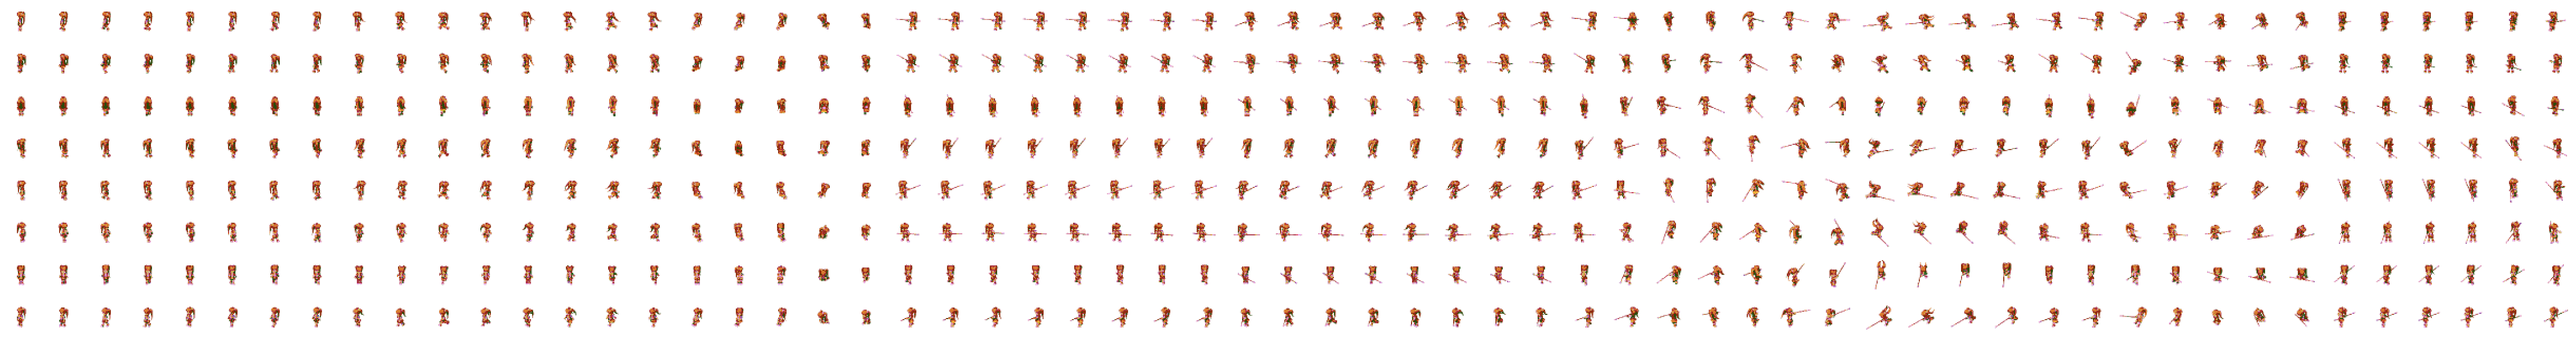
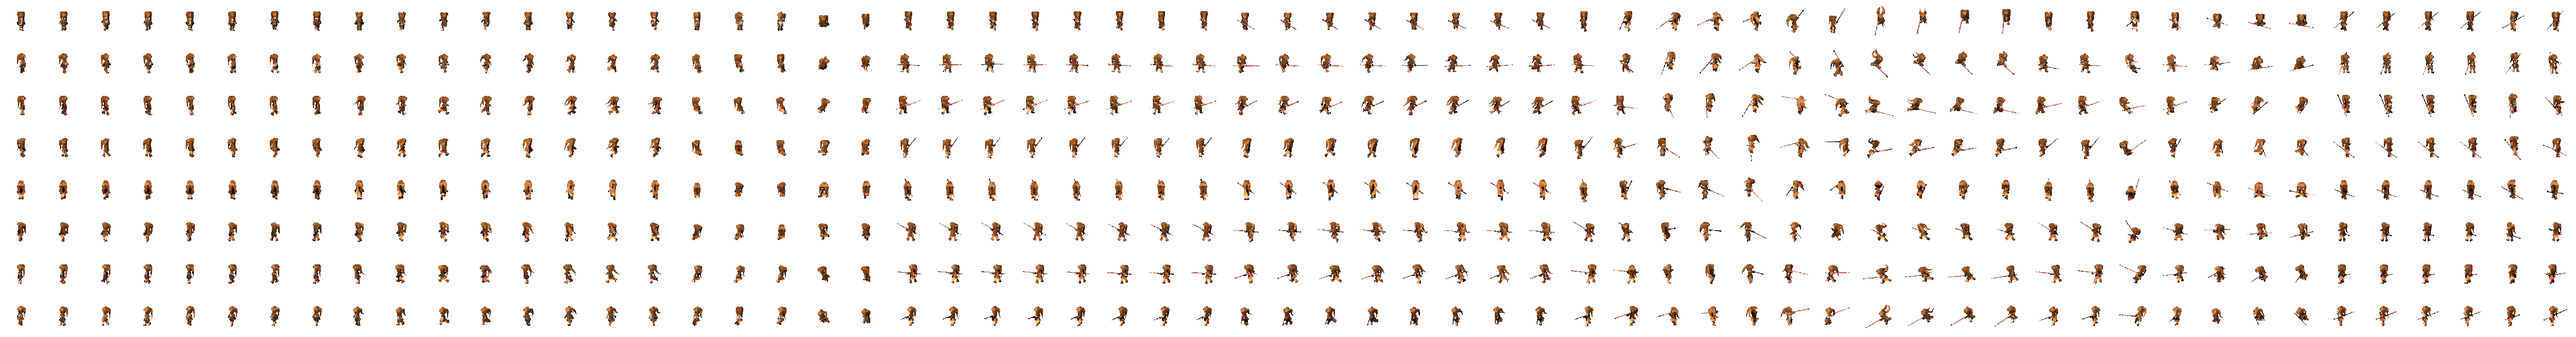
[battle] [viewer] uniform sprite-sheets directions.

diff --git a/viewer/Hero.cpp b/viewer/Hero.cpp
@@ -24,8 +24,8 @@ void Hero::play(sf::Time elapsed) {
 
 	m_frame_timer += elapsed.asMilliseconds();
 
-	if (m_frame_timer >= DURATION || g_change_action) {
-		m_frame_timer = m_frame_timer % DURATION;
+	if (m_frame_timer >= FRAME_CYCLE || g_change_action) {
+		m_frame_timer = m_frame_timer % FRAME_CYCLE;
 		g_change_action = false;
 		step();
 	}
@@ -56,7 +56,7 @@ void Hero::move(bool move) noexcept {
 }
 
 void Hero::turn(int direction) {
-	g_direction = getTextureDirection(direction);
+	g_direction = direction;
 }
 
 void Hero::changeActor() {
@@ -82,18 +82,10 @@ int Hero::getCurrentFrame() const noexcept {
 }
 
 int Hero::getDirection() const {
-	return getScreenDirection(g_direction);
+	return g_direction;
 }
 
 sf::Vector2f Hero::getOffset() const {
 	const int direction = getDirection();
 	return VECTORS.at(direction) * SPEED;
-}
-
-constexpr int Hero::getScreenDirection(int direction) {
-	return (DIRECTIONS + INIT_DIRECTION - direction) % DIRECTIONS;
-}
-
-constexpr int Hero::getTextureDirection(int direction) {
-	return (DIRECTIONS + INIT_DIRECTION - direction) % DIRECTIONS;
 }

diff --git a/battle/Hero.cpp b/battle/Hero.cpp
@@ -77,7 +77,7 @@ void Hero::play(sf::Time elapsed) {
 }
 
 void Hero::step() {
-	const int direction = getScreenDirection(getDirection());
+	const int direction = getDirection();
 
 	m_frame.x = getStartFrame() + getCurrentFrame();
 	m_frame.y = direction;
@@ -88,7 +88,6 @@ void Hero::step() {
 	m_sprite->setTextureRect(m_area);
 	m_text->setString(to_string(m_fsm.context().hp));
 }
-
 
 int Hero::getStartFrame() const {
 	return m_action_set->getAction(m_fsm.context().action)->start;
@@ -349,17 +348,4 @@ sf::Vector2f Hero::genPosition() {
 
 int Hero::genHit() noexcept {
 	return rand() % (MAX_HIT - MIN_HIT) + MIN_HIT;
-}
-
-
-// ---------------------------------------------
-// private static methods
-// ---------------------------------------------
-
-constexpr int Hero::getScreenDirection(int direction) noexcept {
-	return (DIRECTIONS + INIT_DIRECTION - direction) % DIRECTIONS;
-}
-
-constexpr int Hero::getTextureDirection(int direction) noexcept {
-	return (DIRECTIONS + INIT_DIRECTION - direction) % DIRECTIONS;
 }

diff --git a/viewer/Hero.h b/viewer/Hero.h
@@ -6,9 +6,8 @@
 #include "../common/ActionManager.h"
 #include "../common/ActorManager.h"
 
-constexpr int INIT_DIRECTION = 6;
+constexpr int FRAME_CYCLE = 100;
 constexpr float SPEED = 2.0f;
-constexpr int DURATION = 100;
 
 class Hero : public Actor
 {
@@ -31,8 +30,6 @@ public:
     sf::Vector2f getOffset() const override;
 
 private:
-    static constexpr int getScreenDirection(int direction);
-    static constexpr int getTextureDirection(int direction);
 
     static inline sf::Vector2f g_position = sf::Vector2f(INIT_WIDTH / 2, INIT_HEIGHT / 2);
     static inline int g_frame_step = 0;

diff --git a/battle/Hero.h b/battle/Hero.h
@@ -89,11 +89,6 @@ private:
     sf::Vector2f genPosition();
     int genHit() noexcept;
 
-    /* private static methods */
-
-    static constexpr int getScreenDirection(int direction) noexcept;
-    static constexpr int getTextureDirection(int direction) noexcept;
-
     /* private members */
 
     Hero* m_enemy = nullptr;

diff --git a/battle/globals.h b/battle/globals.h
@@ -17,7 +17,7 @@ constexpr int ACTOR_TYPES = 8;
 constexpr int ACTIONS = 12;
 constexpr int ROW_ACTIONS = ACTIONS;
 
-constexpr int INIT_DIRECTION = 6;
+constexpr int INIT_DIRECTION = 0;
 
 constexpr int FRAME_WIDTH = 80;
 constexpr int FRAME_HEIGHT = 80;

diff --git a/viewer/globals.h b/viewer/globals.h
@@ -12,6 +12,8 @@ constexpr int ACTOR_TYPES = 8;
 constexpr int ACTIONS = 12;
 constexpr int ROW_ACTIONS = ACTIONS;
 
+constexpr int INIT_DIRECTION = 0;
+
 constexpr int FRAME_WIDTH = 80;
 constexpr int FRAME_HEIGHT = 80;
 constexpr int ORIGIN_X = 39;
